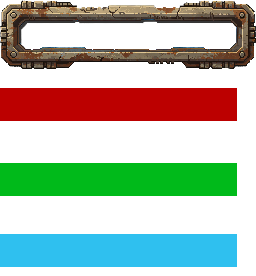
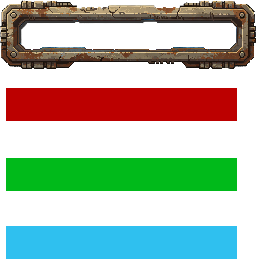
更改字体，拓展了TextArea功能

Changed region(s): [[0.0, 0.8116, 0.9375, 0.9855], [0.0, 0.5507, 0.9375, 0.7246], [0.0, 0.3188, 0.0312, 0.4348]]

diff --git a/src/OpenCoreSrc/TextArea.cpp b/src/OpenCoreSrc/TextArea.cpp
@@ -3,8 +3,10 @@
 #include "OpenCore/Runtime/Animation/IAnimation.hpp"
 #include "OpenCore/Runtime/Graphics/IDrawableObject/Texture.hpp"
 #include <SDL2/SDL_render.h>
+#include <SDL2/SDL_surface.h>
 #include <SDL2/SDL_ttf.h>
 #include <memory>
+#include <string>
 
 TextArea::TextArea(const string &id, uint8_t layer, short fontID)
     : UIElement(id, layer, nullptr)
@@ -33,15 +35,15 @@ void TextArea::Draw()
 
     // <渲染逻辑>
 
-    Rect dstRect = getLogicalBounds();
-
     auto GFX = OpenCoreManagers::GFXManager.getInstance();
+
+    Rect dstRect = getLogicalBounds();
 
     GFX.Draw(m_textureCache, nullptr, &dstRect, 0.0f, nullptr);
     // <渲染逻辑>
 }
 
-void TextArea::setText(const string &textContent)
+void TextArea::setText(string_view textContent)
 {
     // 设置后刷新缓存
     m_textContent = textContent;
@@ -78,27 +80,45 @@ void TextArea::refreshTextureCache()
 
     SDL_Surface *text = TTF_RenderUTF8_Blended(font, m_textContent.c_str(),
                                                {255, 255, 255, 255});
-
-    SDL_Texture *textures =
+    SDL_Texture *textBuffer =
         SDL_CreateTextureFromSurface(GFX.getRenderer(), text);
 
-    if (!textures)
+    if (!textBuffer)
     {
         LOG("Failed to generate text texture");
     }
+
+    SDL_FreeSurface(text);
 
     // 此处已经知道了目标的尺寸为loRect.w x loRect.h
 
     int texW, texH;
 
-    SDL_QueryTexture(textures, nullptr, nullptr, &texW, &texH);
+    SDL_QueryTexture(textBuffer, nullptr, nullptr, &texW, &texH);
 
-    Rect dstRect = {0, 0, loRect.h * (texW * 1.0f / texH), loRect.h};
+    Rect dstRect = {0, 0, m_fontSize * (texW * 1.0f / texH), m_fontSize * 1.0f};
 
-    GFX.Draw(textures, nullptr, &dstRect, 0.0f, nullptr);
+    if (m_shadowEnable)
+    {
+        SDL_Surface *shadowSurface = TTF_RenderUTF8_Blended(
+            font, m_textContent.c_str(), {0, 0, 0, transparency});
 
-    SDL_DestroyTexture(textures);
-    SDL_FreeSurface(text);
+        SDL_Texture *shadowBuffer =
+            SDL_CreateTextureFromSurface(GFX.getRenderer(), shadowSurface);
+
+        Rect shadowRect = dstRect;
+        shadowRect.x += m_shadowOffset;
+        shadowRect.y += m_shadowOffset;
+
+        GFX.Draw(shadowBuffer, nullptr, &shadowRect, 0.0f, nullptr);
+
+        SDL_FreeSurface(shadowSurface);
+        SDL_DestroyTexture(shadowBuffer);
+    }
+
+    GFX.Draw(textBuffer, nullptr, &dstRect, 0.0f, nullptr);
+
+    SDL_DestroyTexture(textBuffer);
 
     // <渲染字体的具体方法>
     GFX.setRenderTarget(nullptr);
@@ -120,4 +140,15 @@ void TextArea::handlEvents(SDL_Event &event, float totalTime)
     default:
         break;
     }
+}
+
+void TextArea::setShadow(bool enableTag, int shadowOffset)
+{
+    this->m_shadowEnable = enableTag;
+
+    this->m_shadowOffset =
+        (shadowOffset <= 0 | shadowOffset > 255) ? 5 : shadowOffset;
+
+    LOG("调整了阴影选项，当前状态为{}，阴影位移为 {}",
+        (enableTag) ? "开" : "关", m_shadowOffset);
 }

diff --git a/src/ProjectSrc/Stage/MainStage/SettingsStage.cpp b/src/ProjectSrc/Stage/MainStage/SettingsStage.cpp
@@ -1,5 +1,7 @@
 #include "Eclipsea/Eclipsea.hpp"
 #include "OpenCore/OpenCore.hpp"
+#include "OpenCore/Runtime/Animation/IAnimation.hpp"
+#include "OpenCore/Runtime/Graphics/UI/TextArea.hpp"
 #include <cstddef>
 #include <memory>
 
@@ -54,40 +56,58 @@ void SettingsStage::onEnter()
 
     // 选项名称
 
-    auto musicV = UI<ImageBoard>("musicvol", 3, img_musicvolume, 1, 1);
-    auto SFXV = UI<ImageBoard>("sfxVol", 3, img_sfxvolume, 1, 1);
+    auto musicTitle = UI<TextArea>("musicVol", 3, 9002, NULL, NULL);
+    auto soundTitle = UI<TextArea>("soundVol", 3, 9002, NULL, NULL);
 
-    musicV->Configure()
+    musicTitle->Configure()
         .Parent(Container.get())
         .Anchor(AnchorPoint::TopLeft)
         .Posite(0.14f, 0.22f)
-        .Scale(0.246f, 0.0f);
+        .Scale(0.5f, 0.0425f);
 
-    SFXV->Configure()
+    musicTitle->setText("音乐音量");
+    musicTitle->setFontSize(36);
+    musicTitle->setShadow(true, 2);
+
+    soundTitle->Configure()
         .Parent(Container.get())
         .Anchor(AnchorPoint::TopLeft)
         .Posite(0.14f, 0.35f)
-        .Scale(0.246f, 0.0f);
+        .Scale(0.5f, 0.0425f);
 
-    Elements->PushElement(std::move(musicV));
-    Elements->PushElement(std::move(SFXV));
+    soundTitle->setText("音效音量");
+    soundTitle->setFontSize(36);
+    soundTitle->setShadow(true, 2);
 
-    auto renderD = UI<ImageBoard>("renderd", 3, img_renderd, 1, 1);
-    auto Multi = UI<ImageBoard>("multi", 3, img_multi, 1, 1);
+    // Elements->PushElement(std::move(musicV));
+    Elements->PushElement(std::move(musicTitle));
+    Elements->PushElement(std::move(soundTitle));
 
-    renderD->Configure()
+    auto Multi = UI<TextArea>("multiTitle", 3, 9002, NULL, NULL);
+
+    auto renderTitle = UI<TextArea>("renderTitle", 3, 9002, NULL, NULL);
+
+    renderTitle->Configure()
         .Parent(Container.get())
         .Anchor(AnchorPoint::TopLeft)
         .Posite(0.14f, 0.48f)
-        .Scale(0.0f, 0.053f);
+        .Scale(0.25f, 0.053f);
+
+    renderTitle->setText("渲染距离");
+    renderTitle->setFontSize(36);
+    renderTitle->setShadow(true, 2);
 
     Multi->Configure()
         .Parent(Container.get())
         .Anchor(AnchorPoint::TopLeft)
         .Posite(0.14f, 0.61f)
-        .Scale(0.0f, 0.053f);
+        .Scale(0.25f, 0.053f);
 
-    Elements->PushElement(std::move(renderD));
+    Multi->setText("渲染距离");
+    Multi->setFontSize(36);
+    Multi->setShadow(true, 2);
+
+    Elements->PushElement(std::move(renderTitle));
     Elements->PushElement(std::move(Multi));
 
     // 选项名称结束
@@ -135,7 +155,7 @@ void SettingsStage::onEnter()
         .Parent(Container.get())
         .Anchor(AnchorPoint::TopLeft)
         .Scale(0.0f, 0.053f)
-        .Posite(0.5f, 0.61f);
+        .Posite(0.27f, 0.61f);
 
     checkbox->bindVariable(OpenCoreManagers::SetManager.getMultiStatus());
     Elements->PushElement(std::move(checkbox));

diff --git a/src/OpenCoreSrc/ScriptStage.cpp b/src/OpenCoreSrc/ScriptStage.cpp
@@ -1,0 +1,42 @@
+#include "OpenCore/OpenCore.hpp"
+#include "OpenCore/Runtime/Graphics/Manager/ElementManager.hpp"
+#include "OpenCore/World/Stage/Stage.hpp"
+
+bool ScriptStage::handlEvents(SDL_Event *event)
+{
+    shared_ptr<Event> neo_event = std::make_shared<Event>(*event);
+    parseEvents(neo_event.get());
+    return true;
+}
+
+bool ScriptStage::parseEvents(Event *event)
+{
+
+    // 处理事件
+    return true;
+}
+
+ScriptStage::ScriptStage(Timer *timer, StageManager *sController)
+{
+    this->timer = timer;
+    this->sController = sController;
+
+    this->stageType = overlayStage;
+
+    this->Elements = std::make_unique<ElementManager>();
+}
+
+void ScriptStage::onEnter() { initializeComponents(); }
+
+void ScriptStage::initializeComponents()
+{
+    // 初始化脚本系统
+}
+
+void ScriptStage::onUpdate() {}
+
+void ScriptStage::onRender() {}
+
+void ScriptStage::onExit() {}
+
+void ScriptStage::onDestroy() {}

diff --git a/include/OpenCore/World/Stage/ScriptStage.hpp b/include/OpenCore/World/Stage/ScriptStage.hpp
@@ -1,0 +1,23 @@
+#pragma once
+
+#include "OverlayStage.hpp"
+#include "Stage.hpp"
+#include <memory>
+
+class ScriptStage : public OverlayStage
+{
+    ScriptStage(Timer *timer, StageManager *sController);
+    bool handlEvents(SDL_Event *event) override;
+    bool parseEvents(Event *event) override;
+
+    void onEnter() override;
+    void initializeComponents() override;
+
+    void onUpdate() override;
+
+    void onRender() override;
+
+    void onExit() override;
+
+    void onDestroy() override;
+};

diff --git a/include/OpenCore/Runtime/Graphics/UI/TextArea.hpp b/include/OpenCore/Runtime/Graphics/UI/TextArea.hpp
@@ -33,13 +33,12 @@ class TextArea : public UIElement
     void handlEvents(SDL_Event &event, float totalTime) override;
 
     void Draw() override;
-
     /**
      * @brief 设置文本框显示的内容
      *
      * @param textContent
      */
-    void setText(const string &textContent);
+    void setText(std::string_view textContent);
 
     /**
      * @brief 设置字体大小
@@ -47,14 +46,17 @@ class TextArea : public UIElement
      * @param fontSize
      */
     void setFontSize(short fontSize);
-
     void onUpdate(float totalTime) override {};
+
+    void setShadow(bool enableTag, int shadowOffset);
 
   private:
     short fontID = 9001;
     short m_fontSize = 20;
 
-    AnchorPoint textAnchor = AnchorPoint::MiddleLeft;
+    bool m_shadowEnable = true;
+    uint8_t m_shadowOffset = 2;
+    uint8_t transparency = 176;
 
     SDL_Texture *m_textureCache;
     string m_textContent;

diff --git a/include/OpenCore/World/Stage/StageManager.hpp b/include/OpenCore/World/Stage/StageManager.hpp
@@ -6,6 +6,8 @@
 #include "Stage.hpp"
 #include "TopStage.hpp"
 
+#include "ScriptStage.hpp"
+
 #include <array>
 #include <memory>
 #include <queue>

diff --git a/src/OpenCoreSrc/ResourceManager.cpp b/src/OpenCoreSrc/ResourceManager.cpp
@@ -1,6 +1,7 @@
 #include "OpenCore/OpenCore.hpp"
 
 #include <SDL2/SDL_image.h>
+#include <SDL2/SDL_ttf.h>
 
 bool ResourceManager::Init()
 {

diff --git a/src/ProjectSrc/Stage/MainStage/ContinueStage.cpp b/src/ProjectSrc/Stage/MainStage/ContinueStage.cpp
@@ -107,6 +107,7 @@ void ContinueStage::initializeComponents()
         .Posite(0.5f, 0.5f);
 
     textDemo->setText("Super Huge Dick");
+    textDemo->setShadow(true, 20);
 
     Elements->PushElement(std::move(textDemo));
 